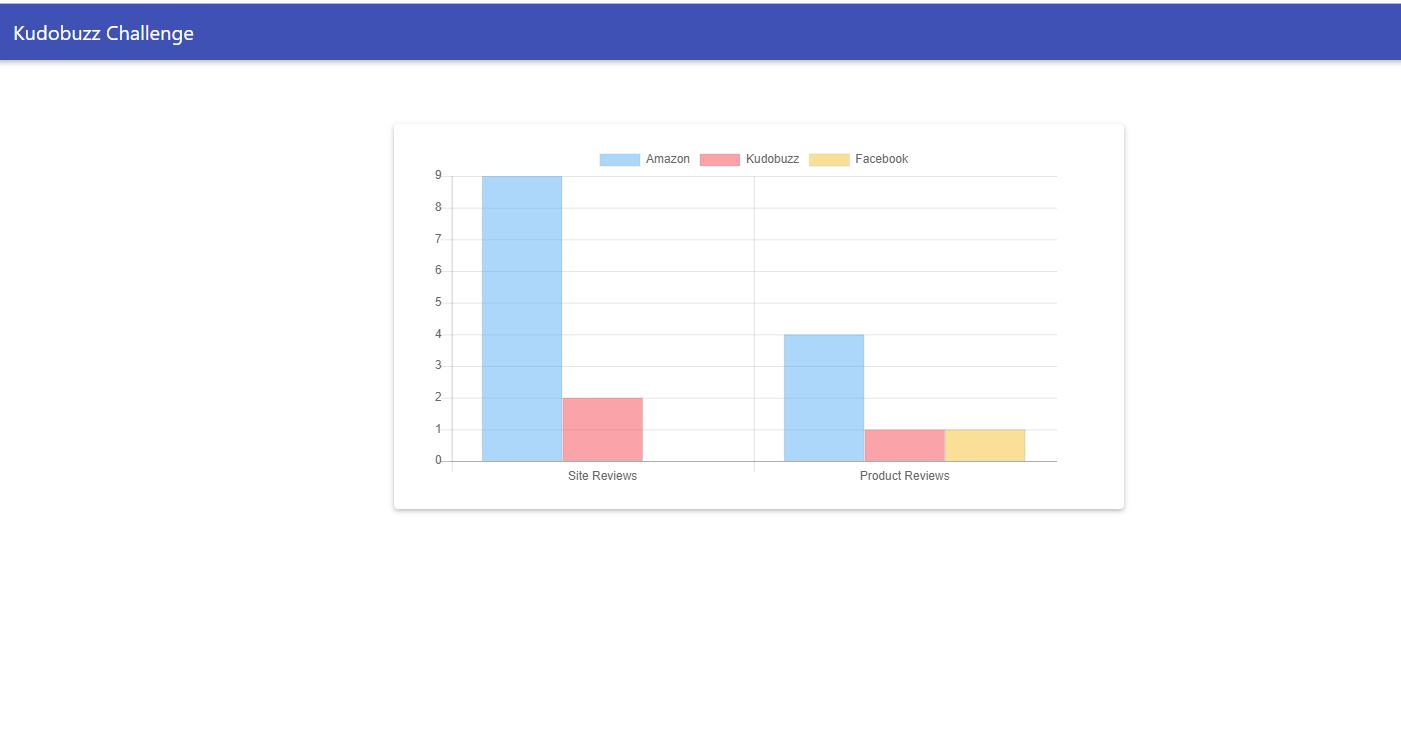
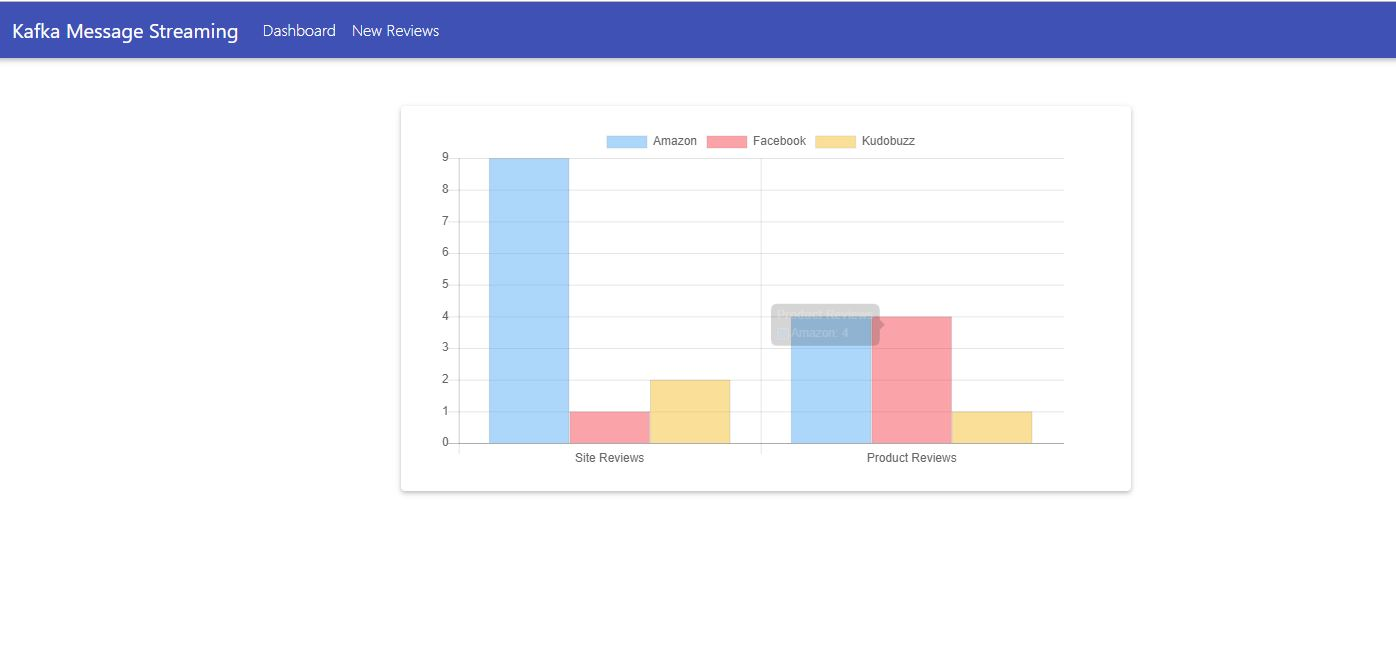
Naming Consistency

diff --git a/react_app/src/App.js b/react_app/src/App.js
@@ -21,7 +21,7 @@ class App extends React.Component {
       <div className="flexible-content">
      <Navbar color="indigo" dark expand="md">
           <NavbarBrand>
-            <strong className="white-text">Kudobuzz Challenge</strong>
+            <strong className="white-text">Kafka Message Streaming</strong>
           </NavbarBrand>
           <NavbarToggler
             onClick={this.toggleCollapse}

diff --git a/README.md b/README.md
@@ -1,5 +1,5 @@
-#  Kafka Message Streams 
-Code: reactjs + expressjs  with a simple dashboard. Running Reviews aggregation using Apache Kafka Streams
+#  Kafka Message Streams for Site and Product Reviews
+Code: reactjs + expressjs  with a simple dashboard. Running Site and Product Reviews aggregation using Apache Kafka Streams
 
 ## Project Details
 Four applications in this repository:
